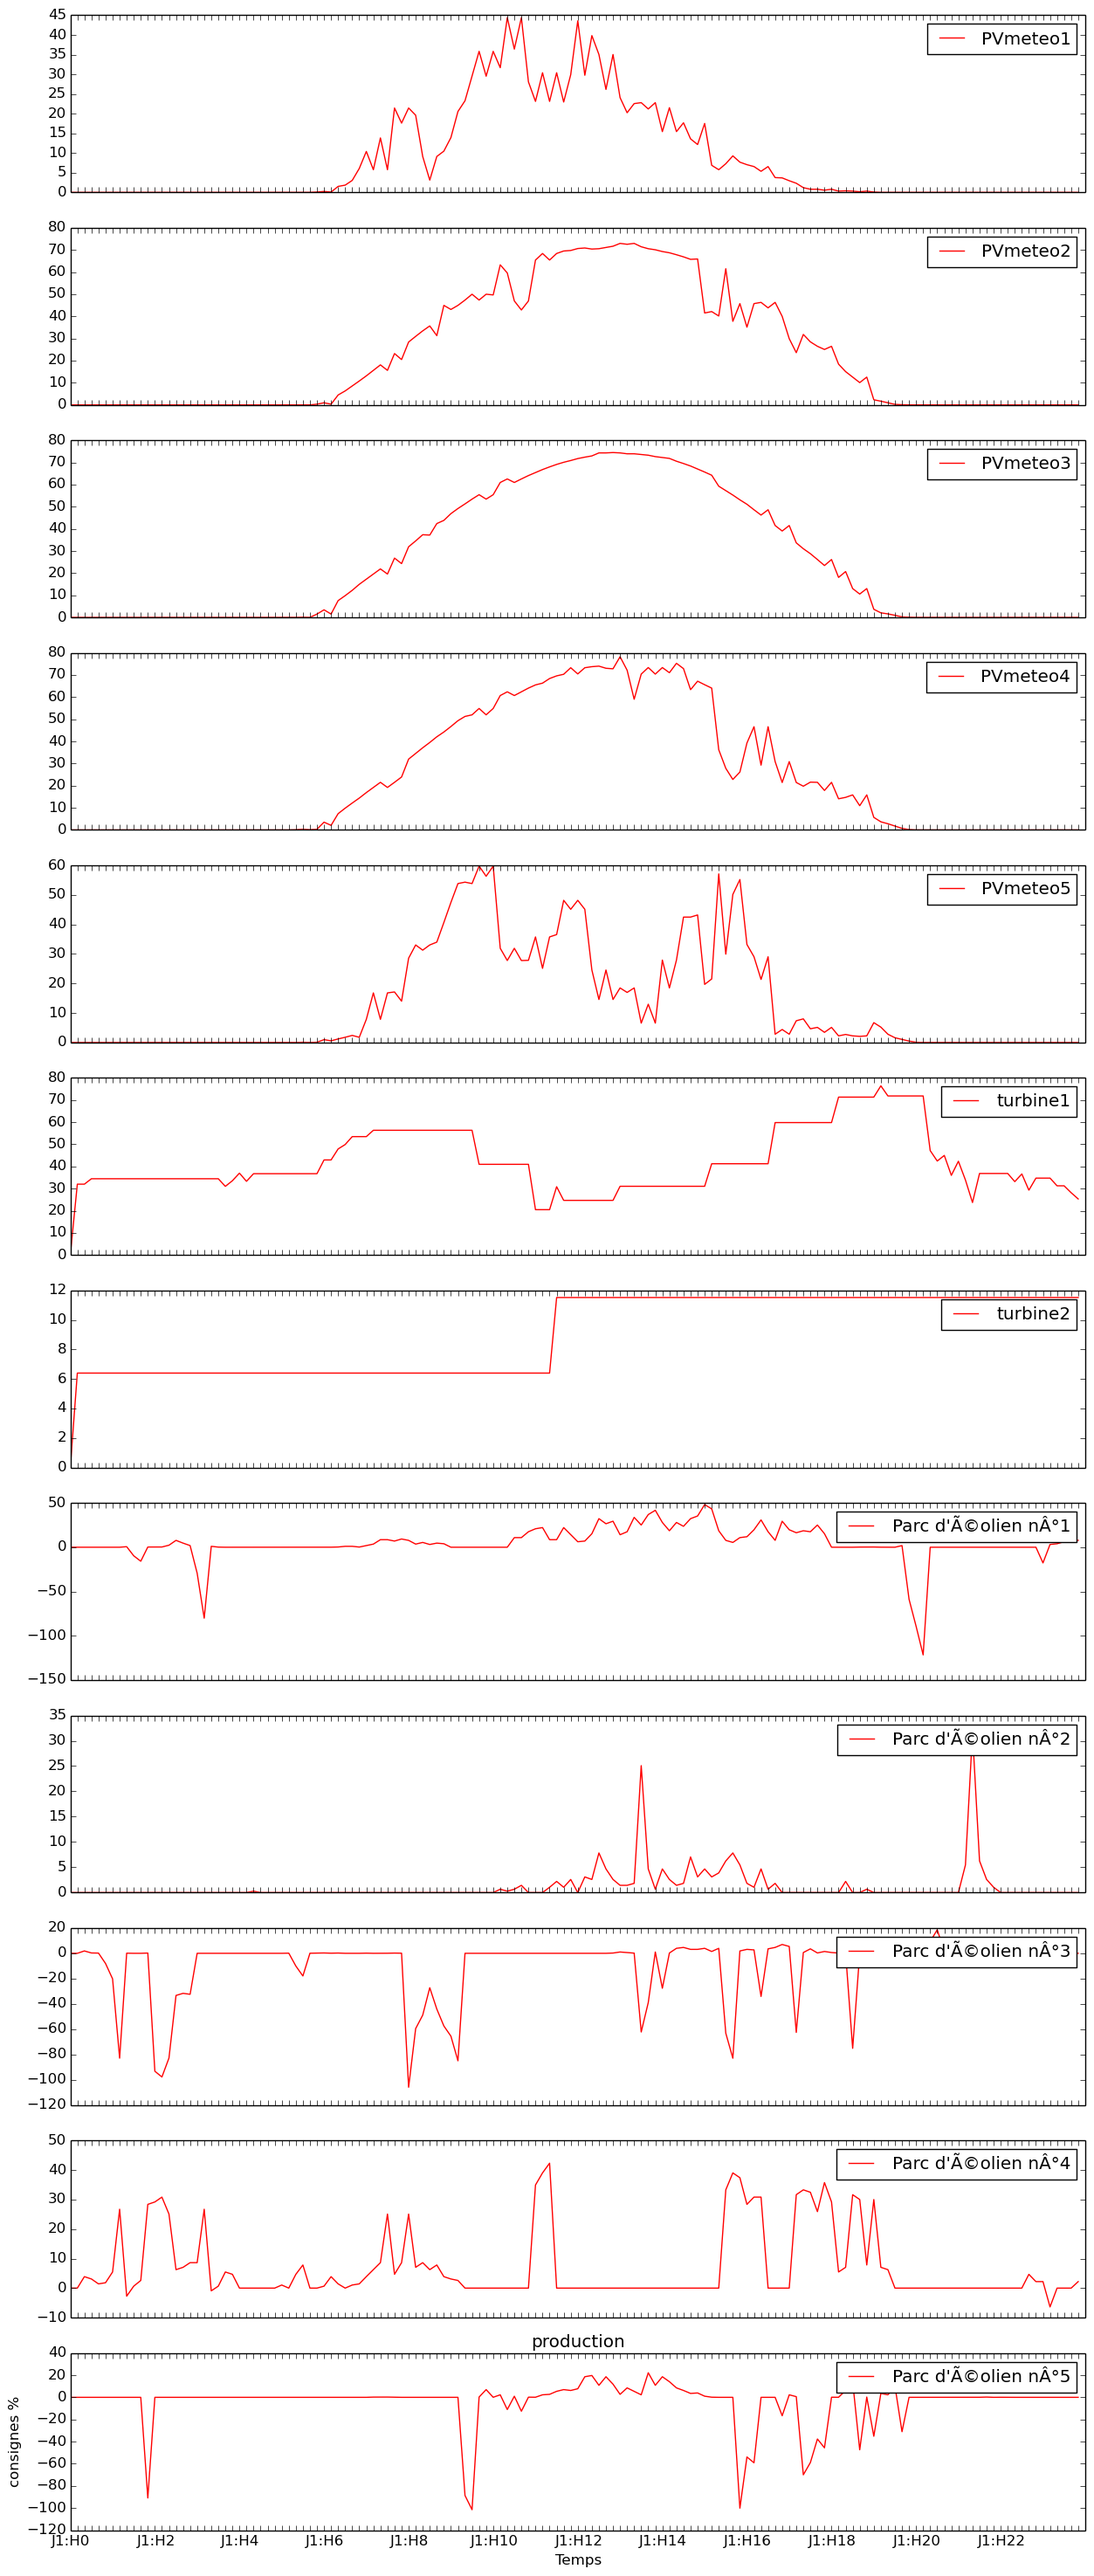
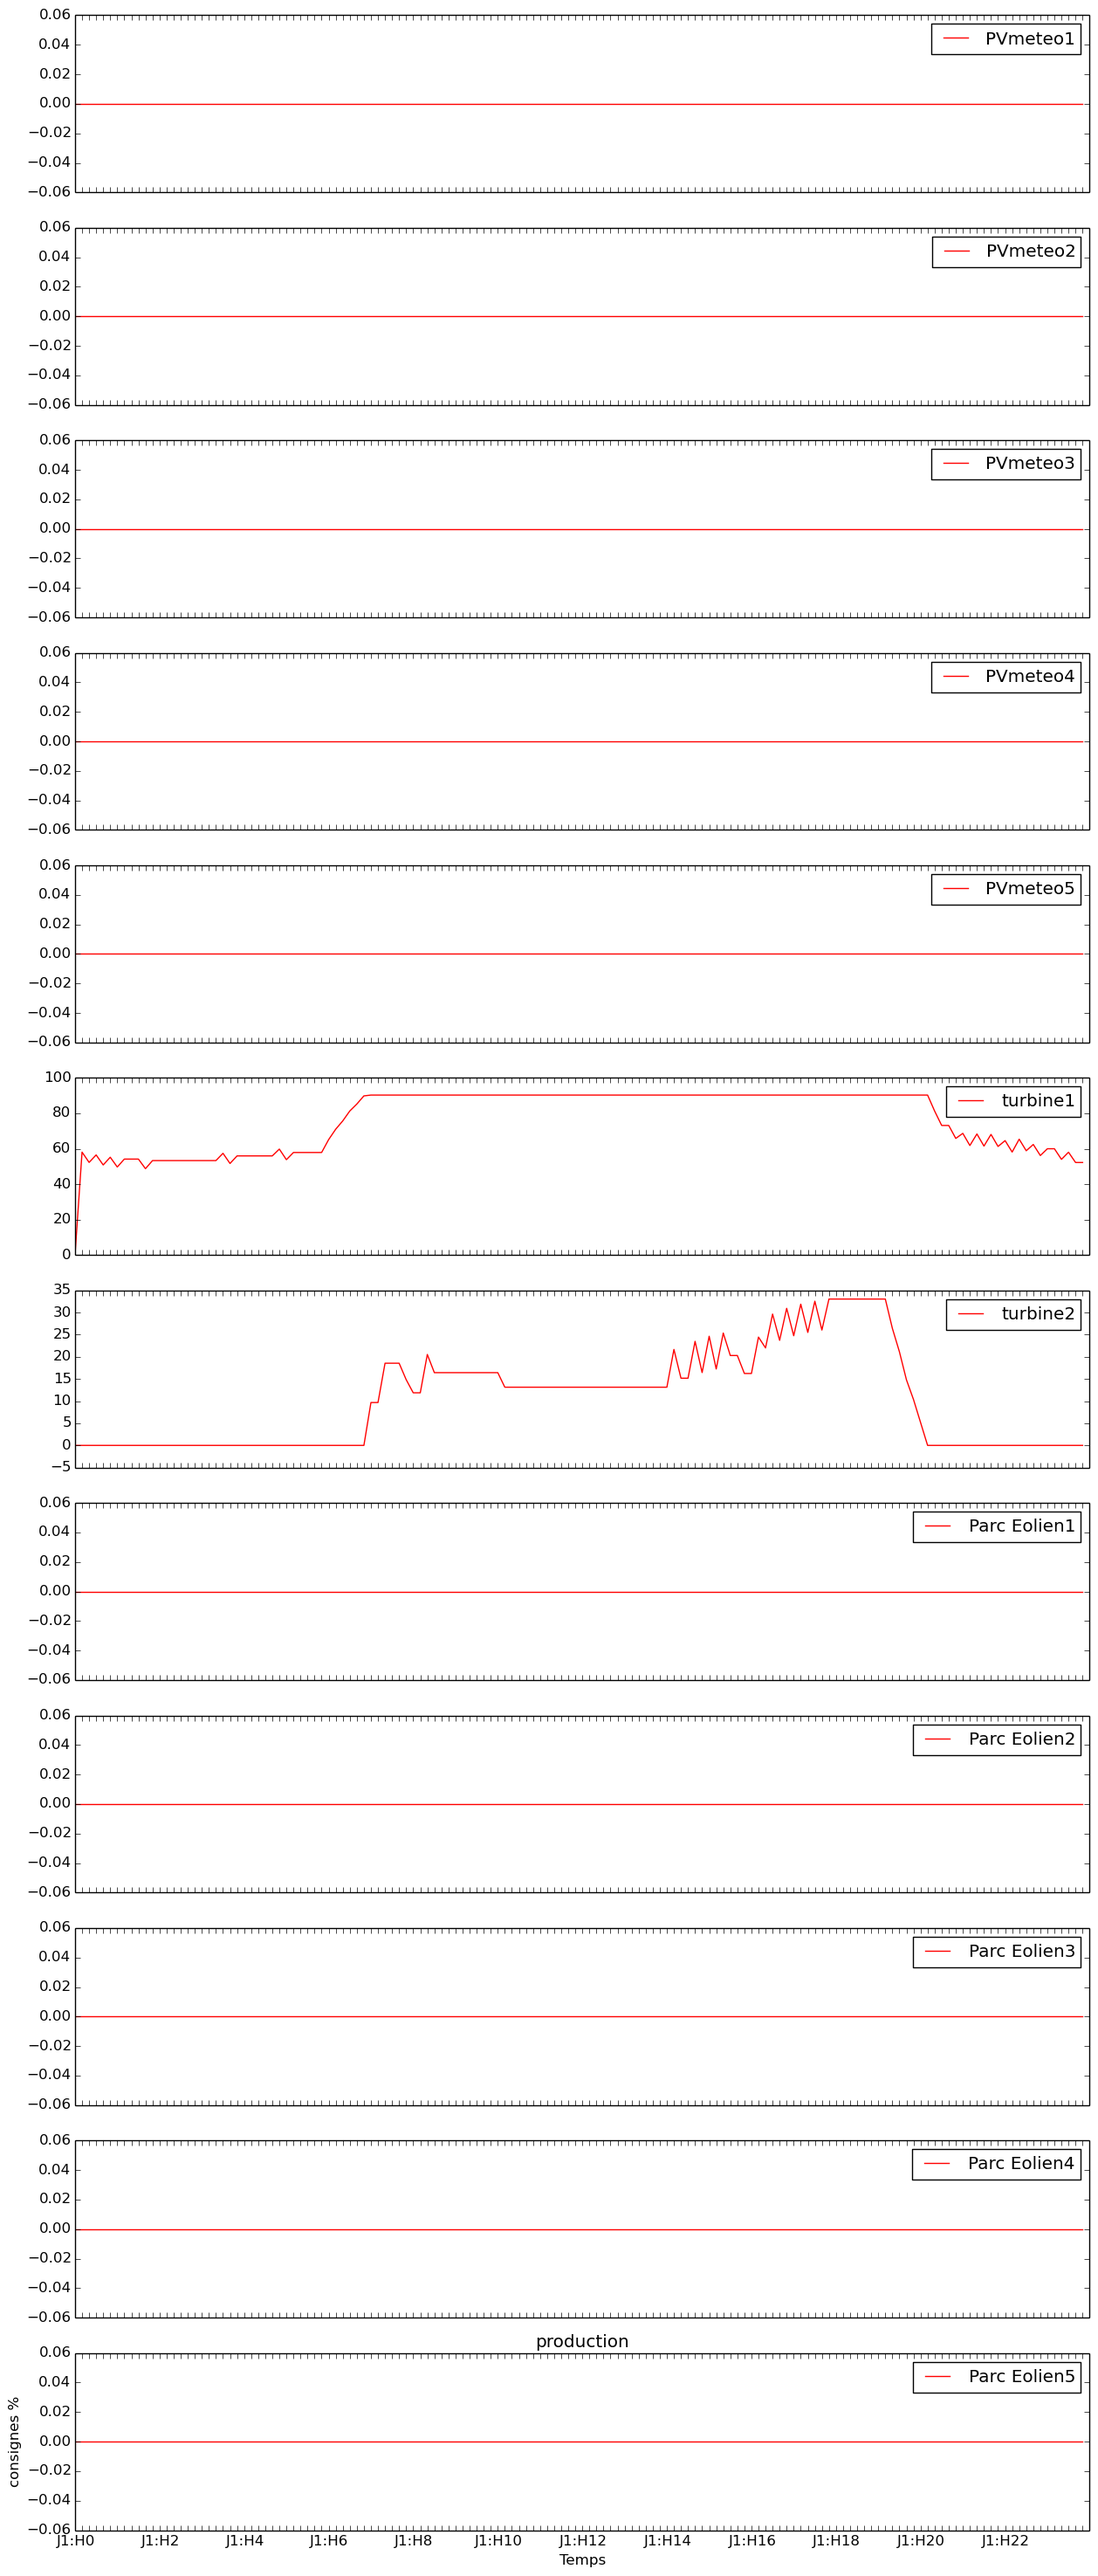
i

diff --git a/Ville.py b/Ville.py
@@ -23,8 +23,8 @@ class Ville:
 		                        ParcSolaire(nom="PVmeteo3",prod=250.,activite=50.,nb=10.,meteo=meteo3),\
 		                        ParcSolaire(nom="PVmeteo4",prod=250.,activite=50.,nb=10.,meteo=meteo4),\
 		                        ParcSolaire(nom="PVmeteo5",prod=250.,activite=50.,nb=10.,meteo=meteo5),\
-		                        ParcTurbineAGaz("turbine1"),\
-		                        ParcTurbineAGaz("turbine2"),\
+		                        ParcTurbineAGaz("turbine1",varcout=1.),\
+		                        ParcTurbineAGaz("turbine2",varcout=1.13),\
 		                        ParcEolien(nom="eolienne,meteo1",n=500., eolienne="eolienne5", meteoVent=meteo1),\
 		                        ParcEolien(nom="eolienne,meteo2",n=5., eolienne="eolienne1500", meteoVent=meteo2),\
 		                        ParcEolien(nom="eolienne,meteo3",n=500., eolienne="eolienne5", meteoVent=meteo3),\
